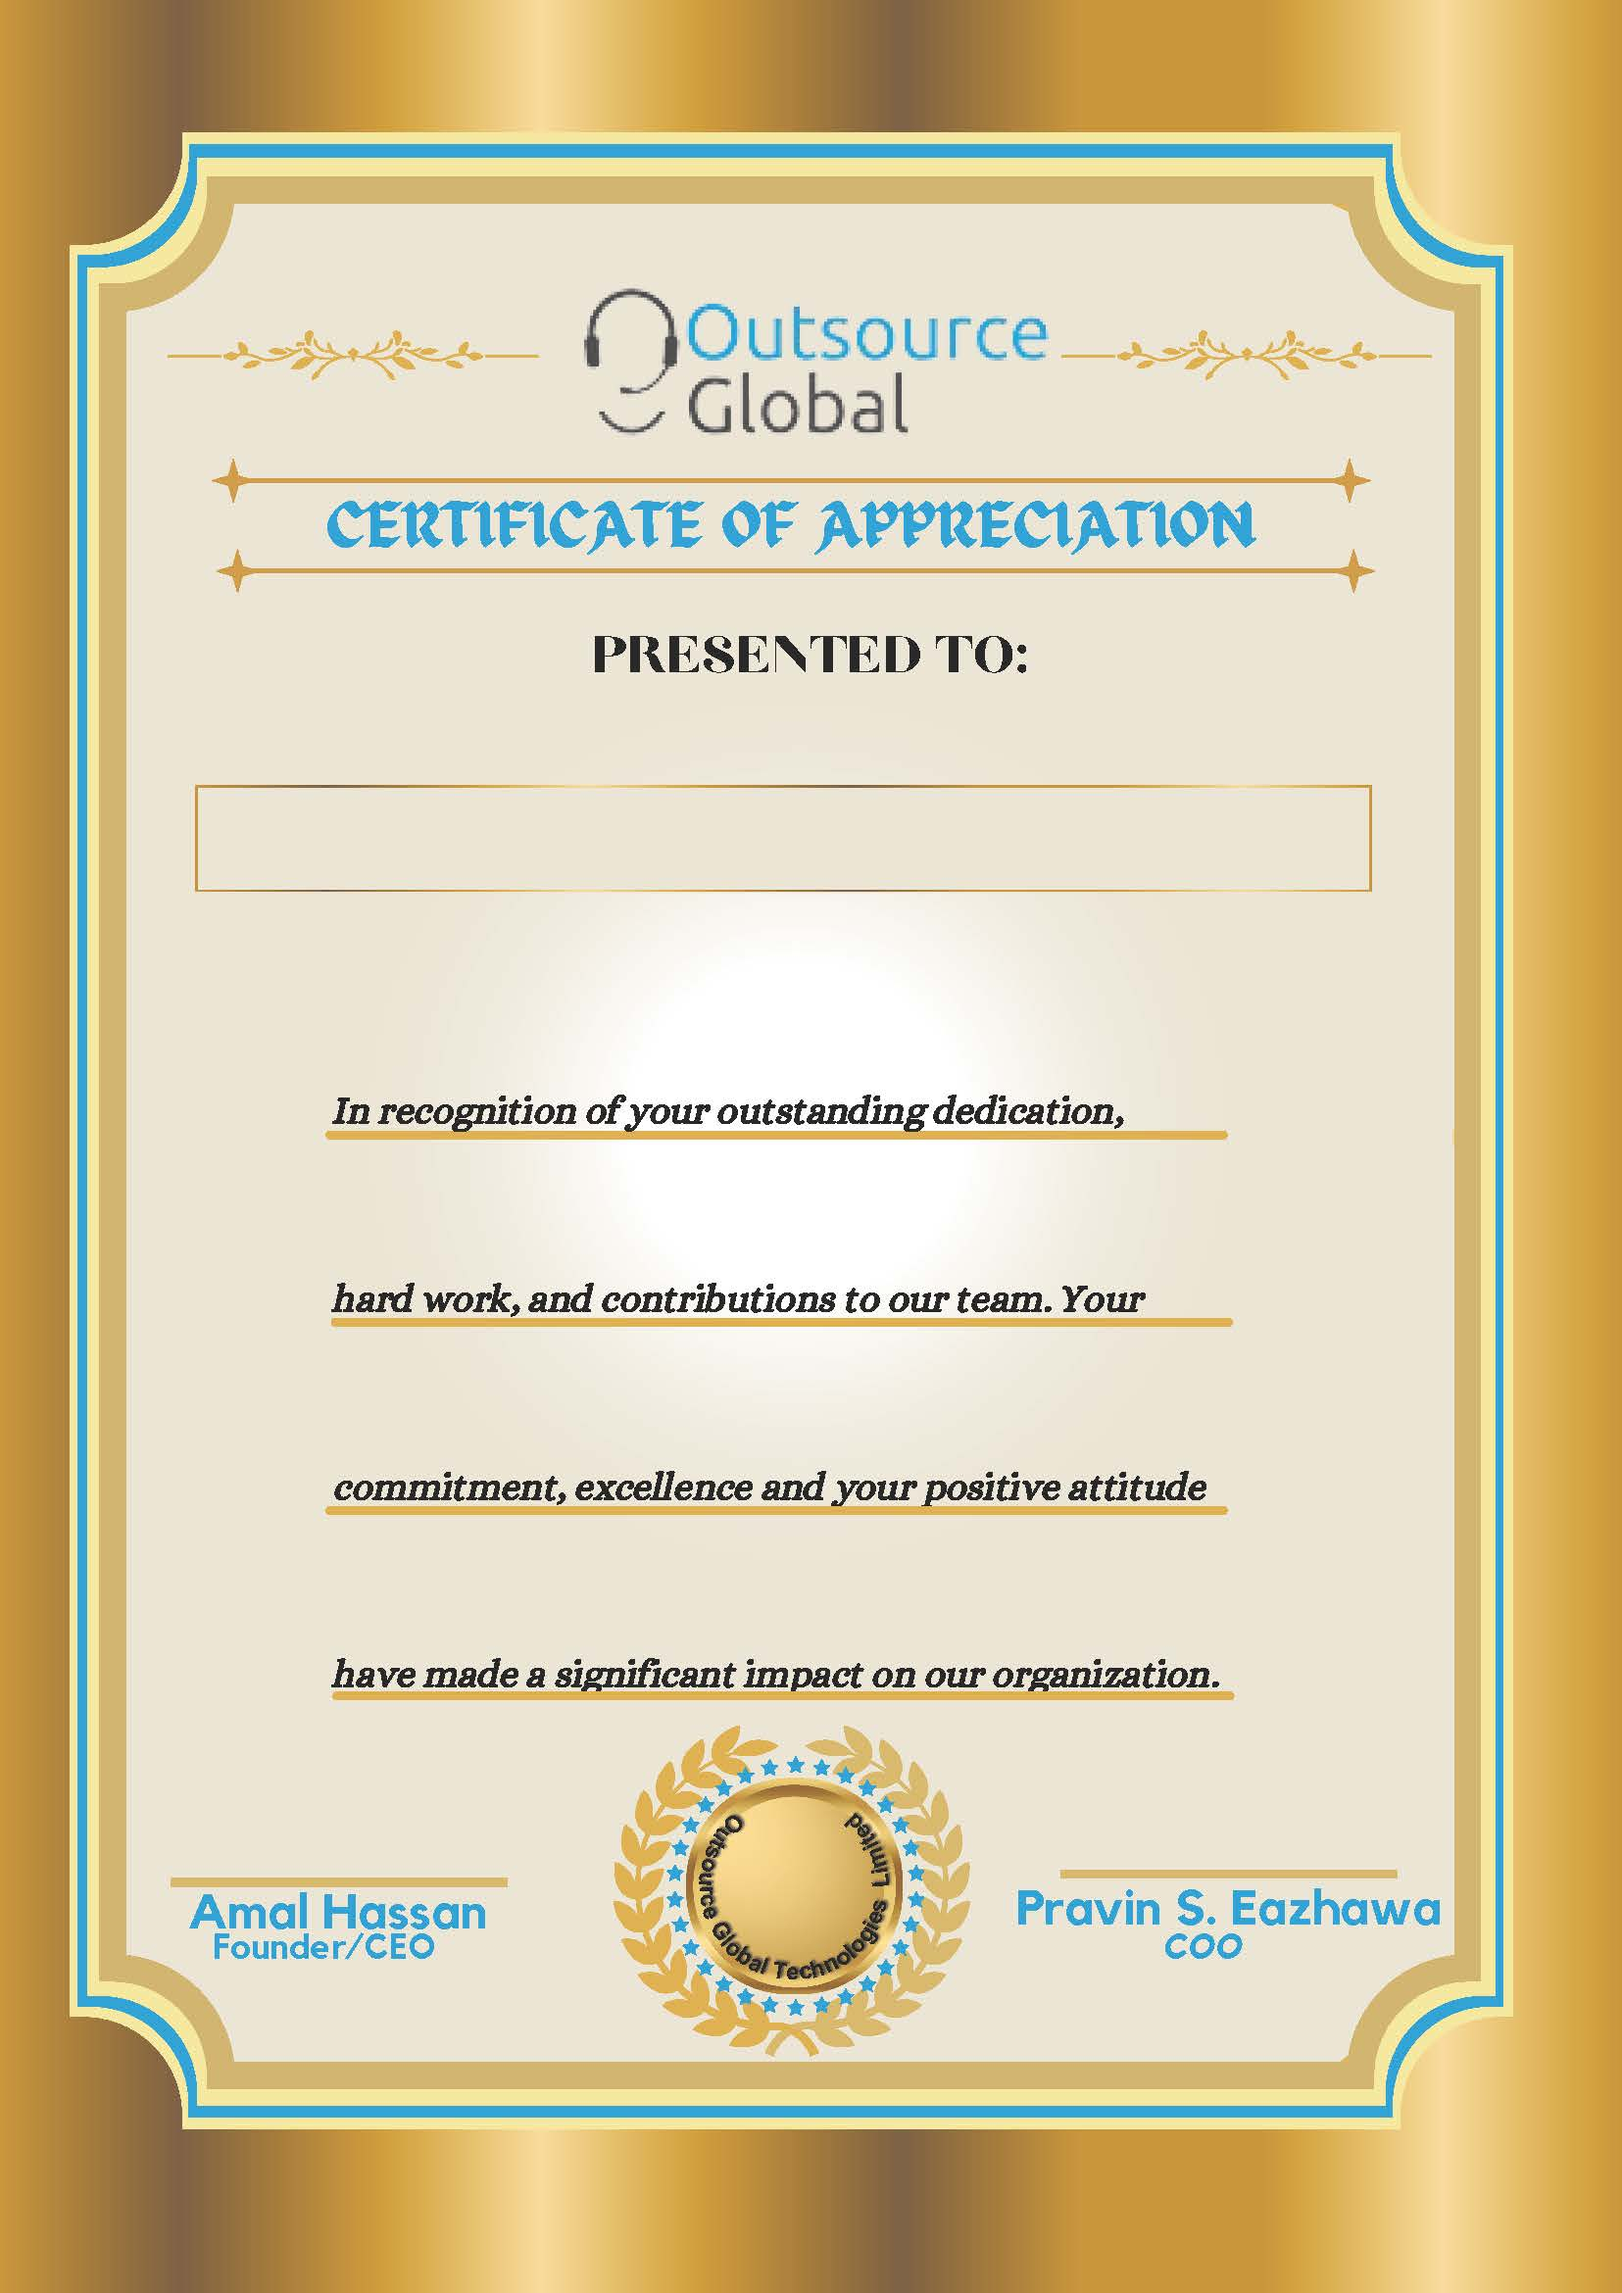
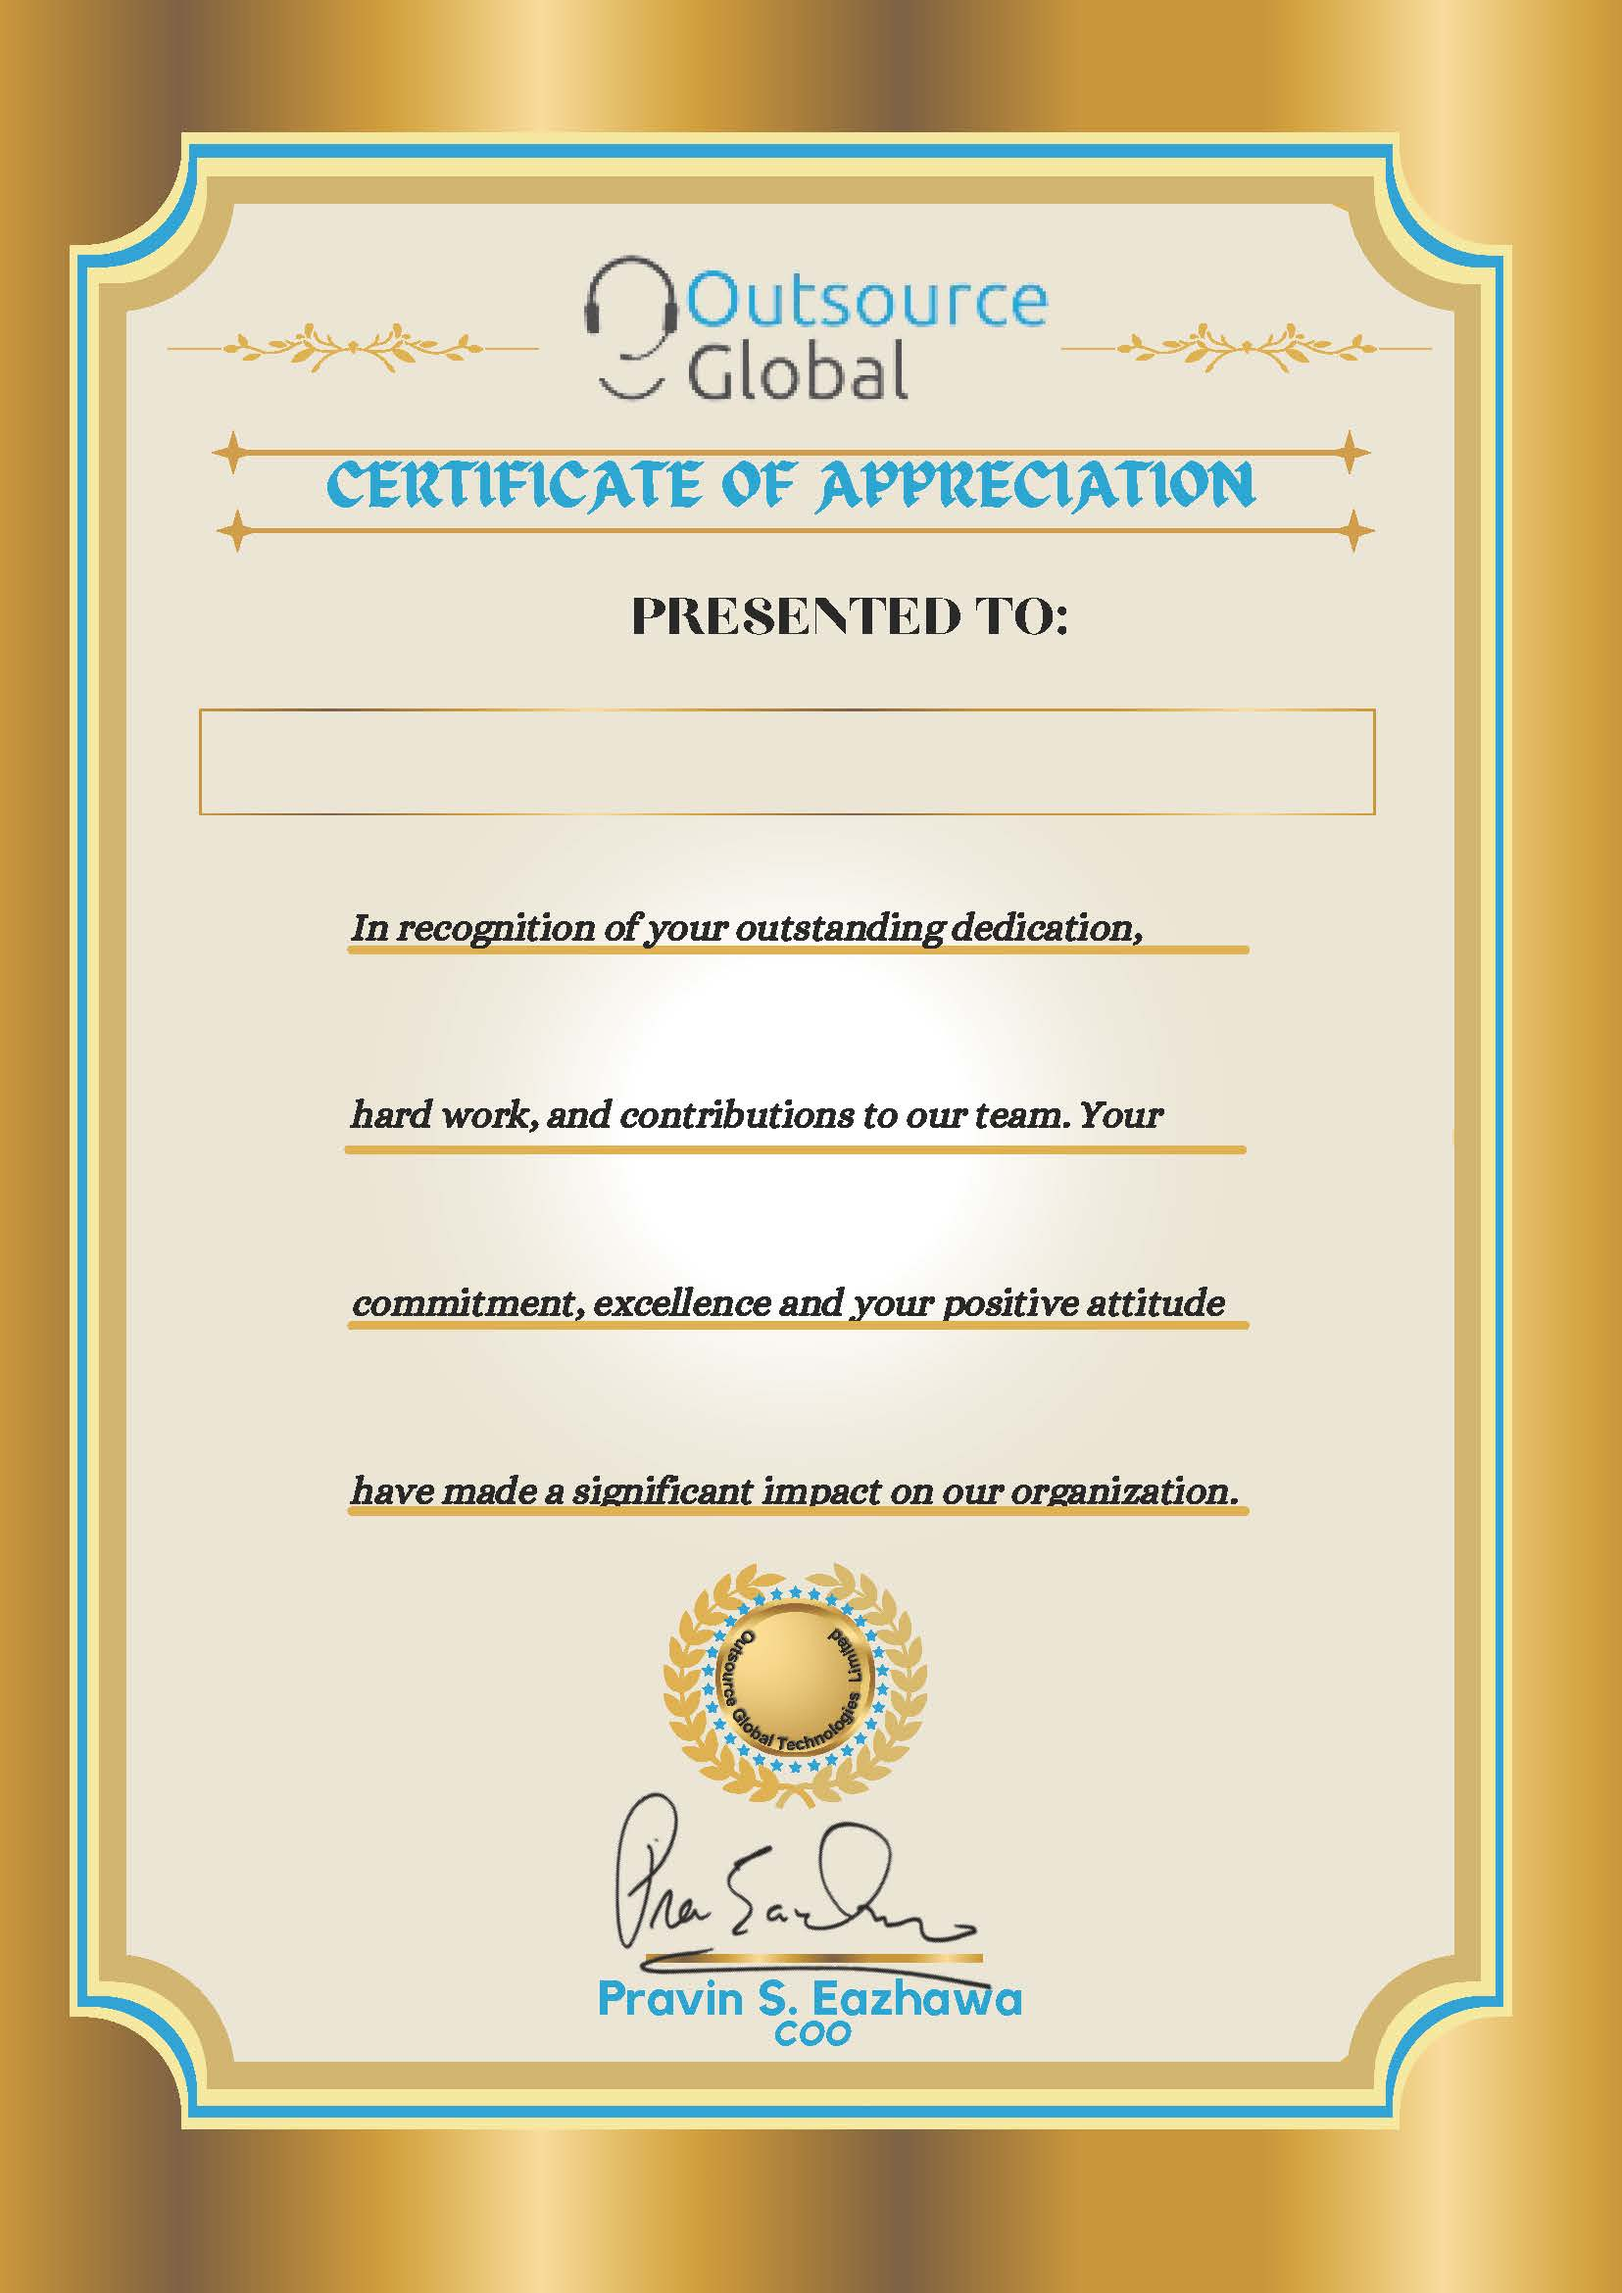
Employee Appreciation

diff --git a/src/index.css b/src/index.css
@@ -1674,7 +1674,7 @@ img {
   justify-content: center;
   left: 0%;
   letter-spacing: 3px;
-  top: calc(100% - 66%);
+  top: calc(100% - 69.5%);
 }
 
 .eCertificate_p_wrapper > p {
